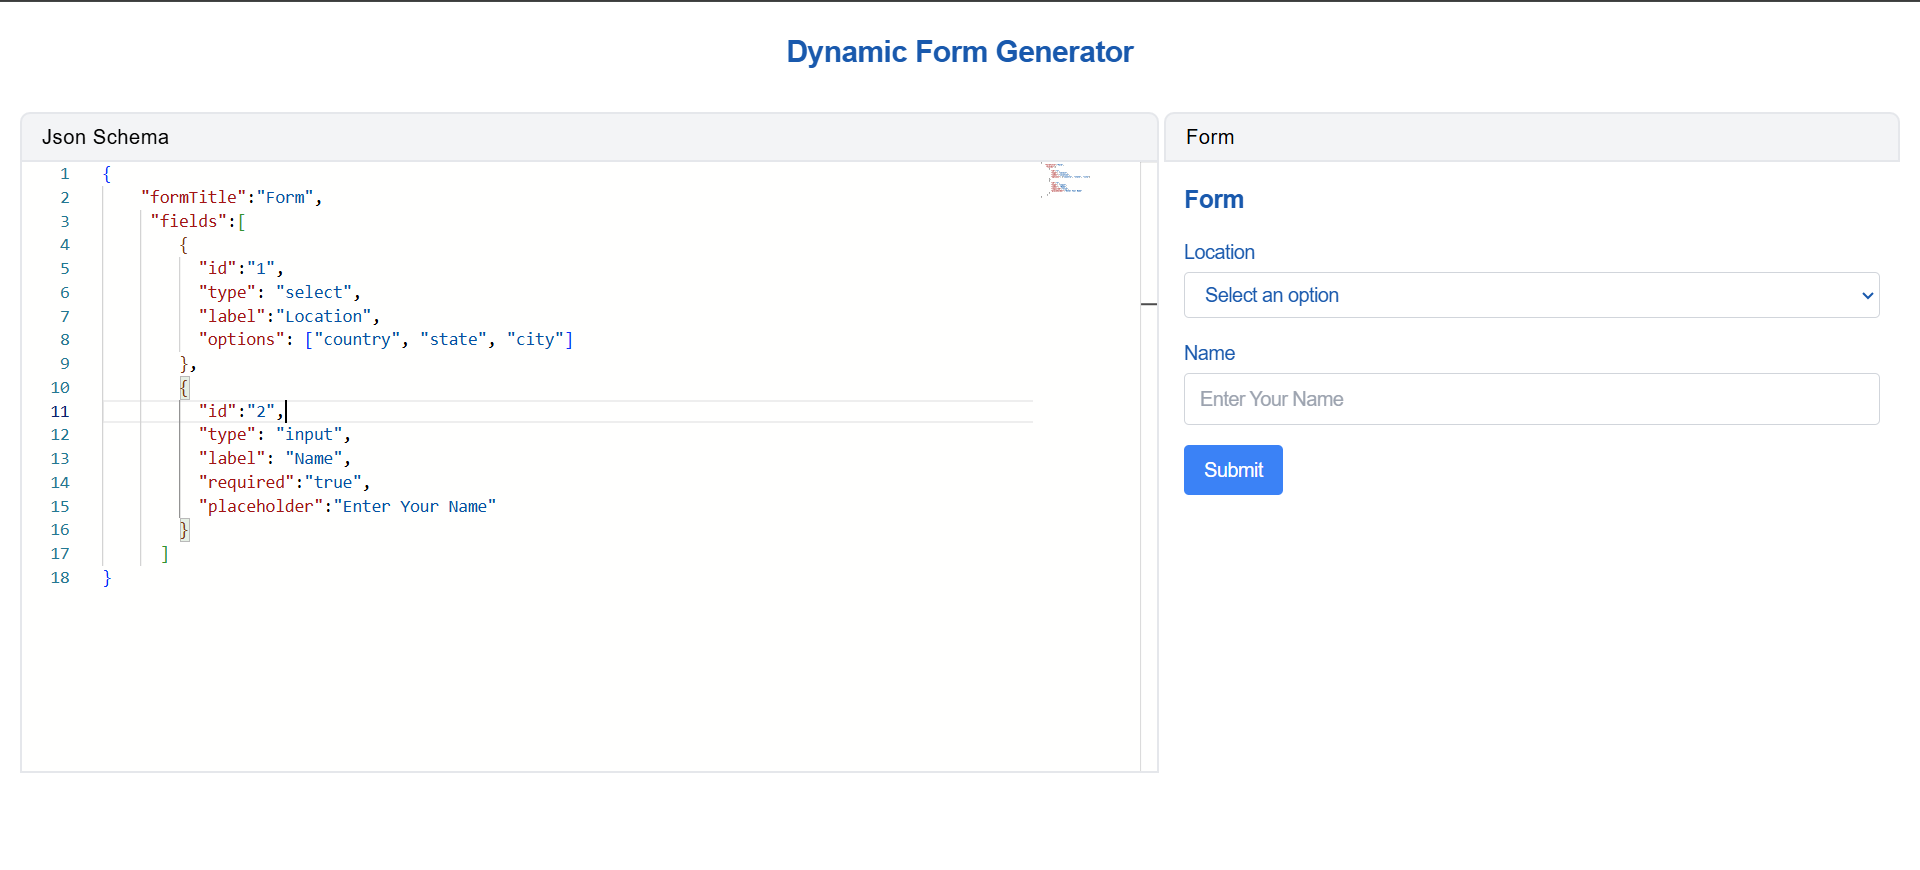
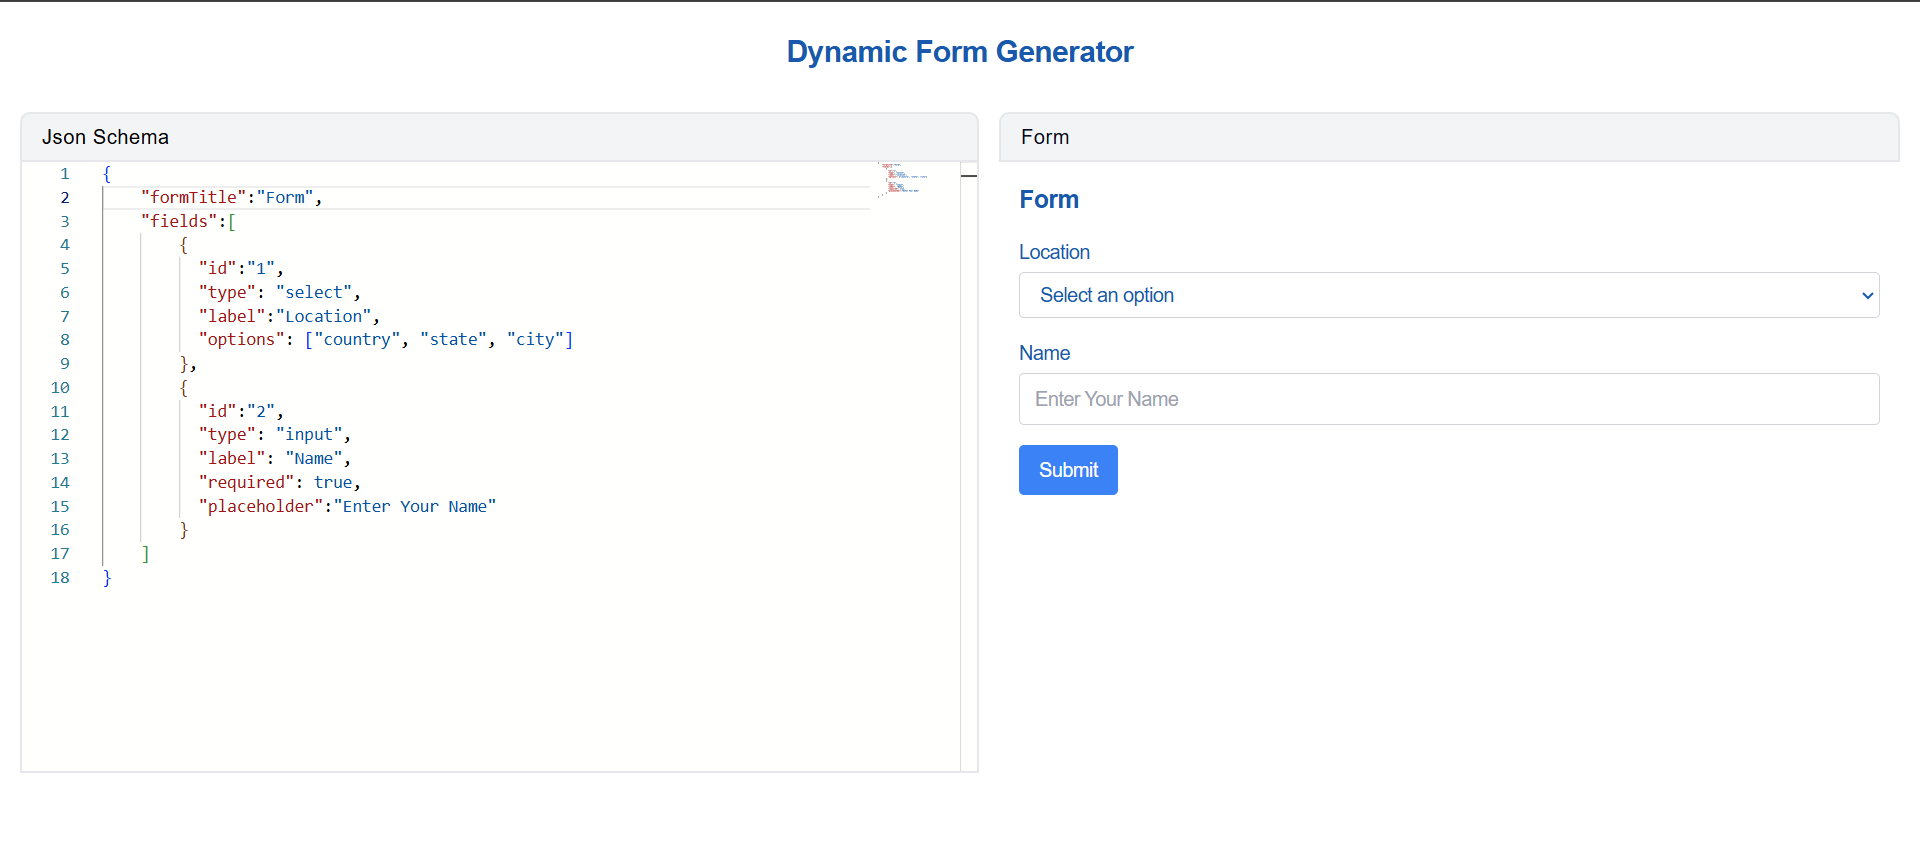
json validation fixed, readme fixed

diff --git a/src/types/JsonSchema.ts b/src/types/JsonSchema.ts
@@ -1,29 +1,40 @@
 import { z } from "zod";
 
+
+const FieldSchema = z
+  .object({
+    id: z.string().min(1, "Field ID is required"),
+    type: z.enum(["text", "textarea", "select", "checkbox", "radio", "number", "email", "input"]),
+    label: z.string().min(1, "Field label is required"),
+    required: z.boolean().optional(),
+    placeholder: z.string().optional(),
+    options: z.array(z.string()).optional(),
+  })
+  .strict() 
+  .refine(
+    (field) =>
+      field.type !== "select" || (field.options && field.options.length > 0),
+    {
+      message: "Options are required when type is 'select'",
+      path: ["options"], 
+    }
+  );
+
 export const JsonSchema = z
   .object({
     formTitle: z.string().min(1, "formTitle is required"),
     formDescription: z.string().optional(),
     fields: z
-      .array(
-        z.object({
-          id: z.string().min(1, "Field ID is required"),
-          type: z.enum(["text", "textarea", "select", "checkbox", "radio", "number", "email", "input"]),
-          label: z.string().min(1, "Field label is required"),
-          required: z.boolean().optional(),
-          placeholder: z.string().optional(),
-          options: z.array(z.string()).optional(),
-        })
-      )
+      .array(FieldSchema)
       .min(1, "At least one field is required")
       .refine(
         (fields) => {
-          const ids = fields.map((field) => field.id);
-          return new Set(ids).size === ids.length; 
+          const ids = fields?.map((field) => field.id);
+          return new Set(ids).size === ids?.length; 
         },
         {
           message: "Field IDs must be unique",
           path: ["fields"], 
         }
       ),
-  });
+  }).strict();

diff --git a/src/components/JsonEditor.tsx b/src/components/JsonEditor.tsx
@@ -14,7 +14,7 @@ const JsonEditor: React.FC<JsonEditorProps> = ({ onChange }) => {
 
   const validateJsonContainsField = (json: string): boolean => {
     try {
-      const parsedJson: typeof JsonSchema = JSON.parse(json);
+      const parsedJson: typeof JsonSchema = json && JSON.parse(json);
       return Object.entries(parsedJson).some(
         ([key, value]) => key.trim().length > 0 && value !== undefined && value !== null
       );
@@ -43,7 +43,7 @@ const JsonEditor: React.FC<JsonEditorProps> = ({ onChange }) => {
       if (isValid) {
         onChange(value, true);
       }else{
-        value && onChange( value, false );
+        (value || value?.length === 0) && onChange( value, false );
       }
   };
 

diff --git a/README.md b/README.md
@@ -16,7 +16,7 @@ This repo contains the code for dynamic form generator build using React, Typesc
           "id":"2",
           "type": "input",
           "label": "Name",
-          "required":"true",
+          "required": true,
           "placeholder":"Enter Your Name" 
         }
       ]
@@ -32,7 +32,7 @@ This repo contains the code for dynamic form generator build using React, Typesc
 
 Check the [live](https://dynamic-form-generator-nu-lemon.vercel.app/) website here.
 
-# React + TypeScript + Vite
+<!-- # React + TypeScript + Vite
 
 This template provides a minimal setup to get React working in Vite with HMR and some ESLint rules.
 
@@ -81,4 +81,4 @@ export default tseslint.config({
     ...react.configs['jsx-runtime'].rules,
   },
 })
-```
+``` -->
